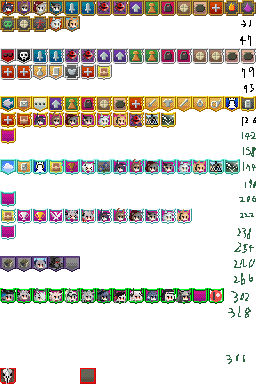
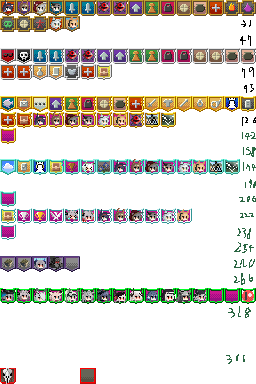
씬

Changed region(s): [[0.75, 0.75, 1.0, 0.8125]]

diff --git a/Arrrknights/core/src/main/java/com/shatteredpixel/shatteredpixeldungeon/sprites/ItemSpriteSheet.java b/Arrrknights/core/src/main/java/com/shatteredpixel/shatteredpixeldungeon/sprites/ItemSpriteSheet.java
@@ -282,7 +282,7 @@ public class ItemSpriteSheet {
 
 	}
 
-	private static final int WEP_TIER4      =                               xy(17, 8);   //8 slots
+	private static final int WEP_TIER4      =                               xy(1, 9);   //8 slots
 	public static final int LONGSWORD       = WEP_TIER4+0;
 	public static final int BATTLE_AXE      = WEP_TIER4+1;
 	public static final int FLAIL           = WEP_TIER4+2;
@@ -299,6 +299,7 @@ public class ItemSpriteSheet {
 	public static final int BLADE_DEMON       = WEP_TIER4+13;
 	public static final int FLAMETAIL       = WEP_TIER4+14;
 	public static final int PANDA       = WEP_TIER4+15;
+	public static final int SCENE       = WEP_TIER4+16;
 	static{
 		assignItemRect(LONGSWORD,       16, 16);
 		assignItemRect(BATTLE_AXE,      16, 16);
@@ -316,9 +317,10 @@ public class ItemSpriteSheet {
 		assignItemRect(BLADE_DEMON,        16, 16);
 		assignItemRect(FLAMETAIL,        16, 16);
 		assignItemRect(PANDA,        16, 16);
+		assignItemRect(SCENE,        16, 16);
 	}
 
-	private static final int WEP_TIER5      =                               xy(1, 9);   //8 slots
+	private static final int WEP_TIER5      =                               xy(1, 10);   //8 slots
 	public static final int GREATSWORD      = WEP_TIER5+0;
 	public static final int WAR_HAMMER      = WEP_TIER5+1;
 	public static final int GLAIVE          = WEP_TIER5+2;
@@ -367,7 +369,7 @@ public class ItemSpriteSheet {
 
 	                                                                                    //8 free slots
 
-	private static final int MISSILE_WEP    =                               xy(1, 10);  //16 slots. 3 per tier + boomerang
+	private static final int MISSILE_WEP    =                               xy(1, 11);  //16 slots. 3 per tier + boomerang
 	public static final int SPIRIT_BOW      = MISSILE_WEP+0;
 	
 	public static final int DART            = MISSILE_WEP+1;
@@ -428,7 +430,7 @@ public class ItemSpriteSheet {
 		assignItemRect(EX44,         24, 24);
 	}
 	
-	public static final int TIPPED_DARTS    =                               xy(1, 11);  //16 slots
+	public static final int TIPPED_DARTS    =                               xy(1, 12);  //16 slots
 	public static final int ROT_DART        = TIPPED_DARTS+0;
 	public static final int INCENDIARY_DART = TIPPED_DARTS+1;
 	public static final int ADRENALINE_DART = TIPPED_DARTS+2;
@@ -446,7 +448,7 @@ public class ItemSpriteSheet {
 			assignItemRect(i, 16, 16);
 	}
 	
-	private static final int ARMOR          =                               xy(1, 12);  //16 slots
+	private static final int ARMOR          =                               xy(1, 13);  //16 slots
 	public static final int ARMOR_CLOTH     = ARMOR+0;
 	public static final int ARMOR_LEATHER   = ARMOR+1;
 	public static final int ARMOR_MAIL      = ARMOR+2;
@@ -550,6 +552,7 @@ public class ItemSpriteSheet {
 	public static final int ARTIFACT_THORNS      = ARTIFACTS+39;
 	public static final int ARTIFACT_ASH      = ARTIFACTS+40;
 	public static final int ARTIFACT_NEARL      = ARTIFACTS+41;
+	public static final int ARTIFACT_CAMERA      = ARTIFACTS+42;
 	static{
 		assignItemRect(ARTIFACT_CLOAK,      16, 16);
 		assignItemRect(ARTIFACT_ARMBAND,    16, 16);
@@ -576,6 +579,8 @@ public class ItemSpriteSheet {
 		assignItemRect(ARTIFACT_ROSE3,      16, 16);
 		assignItemRect(ARTIFACT_THORNS,      16, 16);
 		assignItemRect(ARTIFACT_ASH,      16, 16);
+		assignItemRect(ARTIFACT_NEARL,      16, 16);
+		assignItemRect(ARTIFACT_CAMERA,      16, 16);
 	}
 
 	                                                                                    //16 free slots

diff --git a/Arrrknights/core/src/main/java/com/shatteredpixel/shatteredpixeldungeon/items/weapon/melee/WarJournalist.java b/Arrrknights/core/src/main/java/com/shatteredpixel/shatteredpixeldungeon/items/weapon/melee/WarJournalist.java
@@ -22,7 +22,7 @@ import java.util.ArrayList;
 public class WarJournalist extends MeleeWeapon {
     public static final String AC_ZAP = "ZAP";
     {
-        image = ItemSpriteSheet.WHIP;
+        image = ItemSpriteSheet.SCENE;
         hitSound = Assets.Sounds.HIT;
         hitSoundPitch = 1.03f;
 
